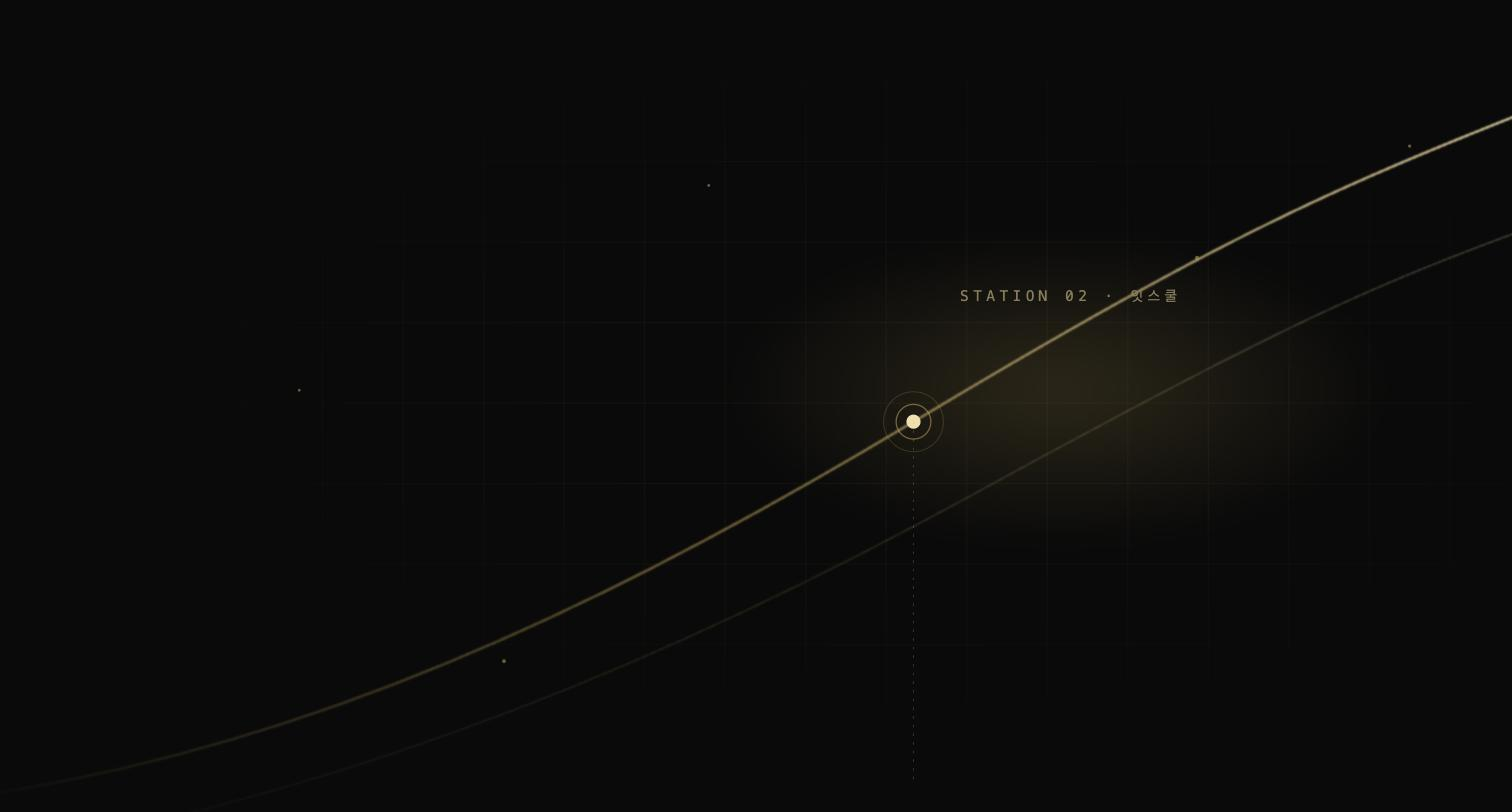
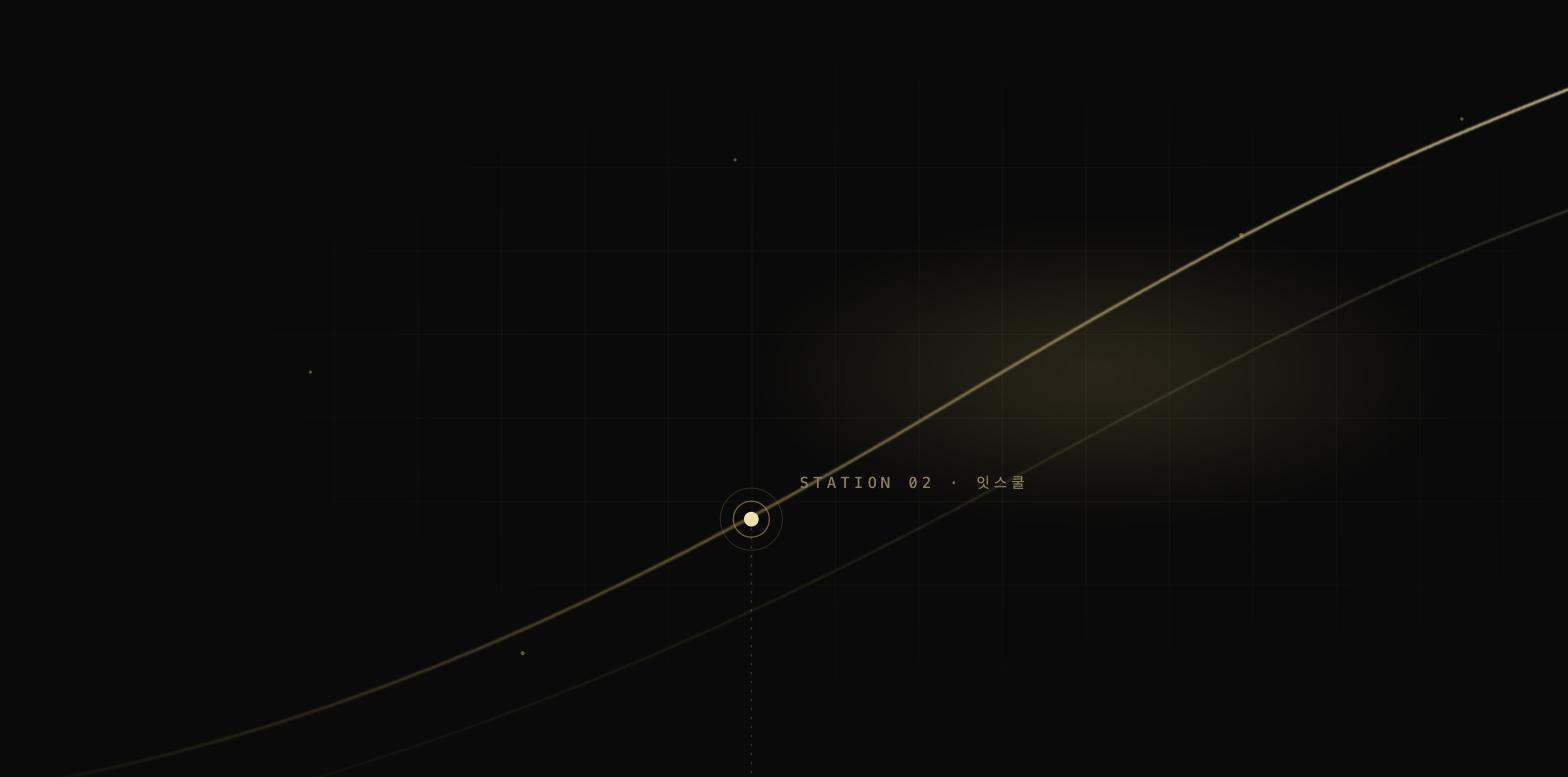
design: 씬2 후기를 '정거장 표지판' 단일 카드로 단순화
게시판 그리드 8타일이 어수선하다는 피드백 반영 —
카드 하나에 큰 숫자(후기 315장) + 대표 기관 3줄 + CTA 하나 (엔진 sign 변형 추가).
배경 STATION 라벨·노드는 카피·카드와 겹치지 않는 중앙 하단으로 이동

diff --git a/assets/world/scrub-engine.js b/assets/world/scrub-engine.js
@@ -163,7 +163,20 @@ function mountScrollWorld(container, config) {
 
     // 2nd beat: real-content cards that surface inside the scene mid-dive
     let aside = null;
-    if (s.cards && s.cards.items && s.cards.items.length) {
+    if (s.sign) {
+      // signboard: 큰 숫자 하나 + 보조 행 몇 줄 + CTA 하나짜리 단일 카드
+      aside = el('aside', 'sw-cards sw-sign'); aside.style.setProperty('--sw-accent', s.accent || '');
+      aside.innerHTML =
+        `<a class="sw-sign__card" href="${esc(s.sign.href || '#')}">` +
+        (s.sign.eyebrow ? `<span class="sw-sign__eyebrow">${esc(s.sign.eyebrow)}</span>` : '') +
+        `<strong class="sw-sign__stat">${esc(s.sign.stat)}</strong>` +
+        (s.sign.desc ? `<span class="sw-sign__desc">${esc(s.sign.desc)}</span>` : '') +
+        (s.sign.rows && s.sign.rows.length
+          ? `<ul class="sw-sign__rows">${s.sign.rows.map(r => `<li><span>${esc(r.label)}</span><b>${esc(r.value)}</b></li>`).join('')}</ul>` : '') +
+        (s.sign.cta ? `<span class="sw-sign__cta">${esc(s.sign.cta)} →</span>` : '') +
+        `</a>`;
+      cardlayer.appendChild(aside);
+    } else if (s.cards && s.cards.items && s.cards.items.length) {
       aside = el('aside', 'sw-cards' + (s.cards.variant ? ' sw-cards--' + s.cards.variant : ''));
       aside.style.setProperty('--sw-accent', s.accent || '');
       aside.innerHTML =
@@ -469,6 +482,17 @@ function injectCSS() {
   .sw-cards--board .sw-card strong{font-size:.98rem;}
   .sw-cards--board .sw-card small{font-size:.78rem;color:var(--sw-ink-soft);}
   .sw-cards--board .sw-cards__more{grid-column:1/-1;}
+  /* signboard 변형: 정거장 표지판 — 숫자 하나·행 몇 줄·CTA 하나 */
+  .sw-sign{width:min(30vw,380px);display:block;}
+  .sw-sign__card{display:flex;flex-direction:column;gap:10px;text-decoration:none;color:var(--sw-ink);background:color-mix(in srgb,var(--sw-bg) 84%,transparent);border:1px solid color-mix(in srgb,var(--sw-accent) 36%,transparent);border-radius:18px;padding:30px 32px;backdrop-filter:blur(10px);transition:transform .25s,border-color .25s;}
+  .sw-sign__card:hover{transform:translateY(-3px);border-color:color-mix(in srgb,var(--sw-accent) 65%,transparent);}
+  .sw-sign__eyebrow{font-family:var(--sw-font-display);font-weight:700;font-size:.8rem;letter-spacing:.16em;text-transform:uppercase;color:var(--sw-accent);}
+  .sw-sign__stat{font-family:var(--sw-font-display);font-weight:800;font-size:clamp(2.6rem,4.4vw,3.6rem);line-height:1.05;color:var(--sw-ink);letter-spacing:-.01em;}
+  .sw-sign__desc{font-size:.92rem;color:var(--sw-ink-soft);}
+  .sw-sign__rows{list-style:none;margin:10px 0 0;padding:14px 0 0;border-top:1px solid color-mix(in srgb,var(--sw-accent) 22%,transparent);display:flex;flex-direction:column;gap:9px;}
+  .sw-sign__rows li{display:flex;justify-content:space-between;gap:12px;font-size:.88rem;color:color-mix(in srgb,var(--sw-ink) 75%,var(--sw-ink-soft));}
+  .sw-sign__rows b{color:var(--sw-accent);font-weight:700;}
+  .sw-sign__cta{margin-top:12px;font-weight:700;font-size:.94rem;color:var(--sw-accent);}
   .sw-copy__link{display:inline-block;margin-top:20px;text-decoration:none;font-weight:700;font-size:.92rem;color:var(--sw-accent);pointer-events:auto;}
   .sw-copy__link:hover{text-decoration:underline;}
   .sw-ticker{position:absolute;left:0;right:0;bottom:96px;overflow:hidden;opacity:0;mask-image:linear-gradient(90deg,transparent,#000 12%,#000 88%,transparent);-webkit-mask-image:linear-gradient(90deg,transparent,#000 12%,#000 88%,transparent);}

diff --git a/index.html b/index.html
@@ -925,17 +925,13 @@ mountScrollWorld(document.getElementById('world'), {
       body:'기업·대학·기관 맞춤형 AI·커리어·콘텐츠 강의를 설계하고 진행합니다.',
       tags:['AI 활용','창업·취업','맞춤 설계'],
       link:{ label:'강의 후기 게시판', href:'reviews.html' },
-      cards:{ variant:'board', title:'기관별 강의 후기',
-        items:[
-          { label:'동래여성인력개발센터', meta:'5개 강의 · 83개 후기', href:'reviews.html' },
-          { label:'김해여성인력개발센터', meta:'3개 강의 · 49개 후기', href:'reviews.html' },
-          { label:'중장년내일센터', meta:'2개 강의 · 26개 후기', href:'reviews.html' },
-          { label:'사상여성인력개발센터', meta:'2개 강의 · 19개 후기', href:'reviews.html' },
-          { label:'금곡고등학교', meta:'1개 강의 · 19개 후기', href:'reviews.html' },
-          { label:'경남경영자총협회', meta:'1개 강의 · 17개 후기', href:'reviews.html' },
-          { label:'청소년활동진흥센터', meta:'1개 강의 · 17개 후기', href:'reviews.html' },
-          { label:'양산경총', meta:'1개 강의 · 15개 후기', href:'reviews.html' } ],
-        more:{ label:'19개 기관 후기 315장 전체 보기', href:'reviews.html' } } },
+      sign:{ eyebrow:'강의 후기 게시판', stat:'후기 315장',
+        desc:'19개 기관, 실제 수강생이 남긴 기록',
+        rows:[
+          { label:'동래여성인력개발센터', value:'83' },
+          { label:'김해여성인력개발센터', value:'49' },
+          { label:'중장년내일센터', value:'26' } ],
+        cta:'후기 게시판 보기', href:'reviews.html' } },
     { id:'w-consult', label:'컨설팅', still:'assets/world/bg_3.jpg',
       accent:'#C9A84C',
       eyebrow:'1:1 컨설팅',
